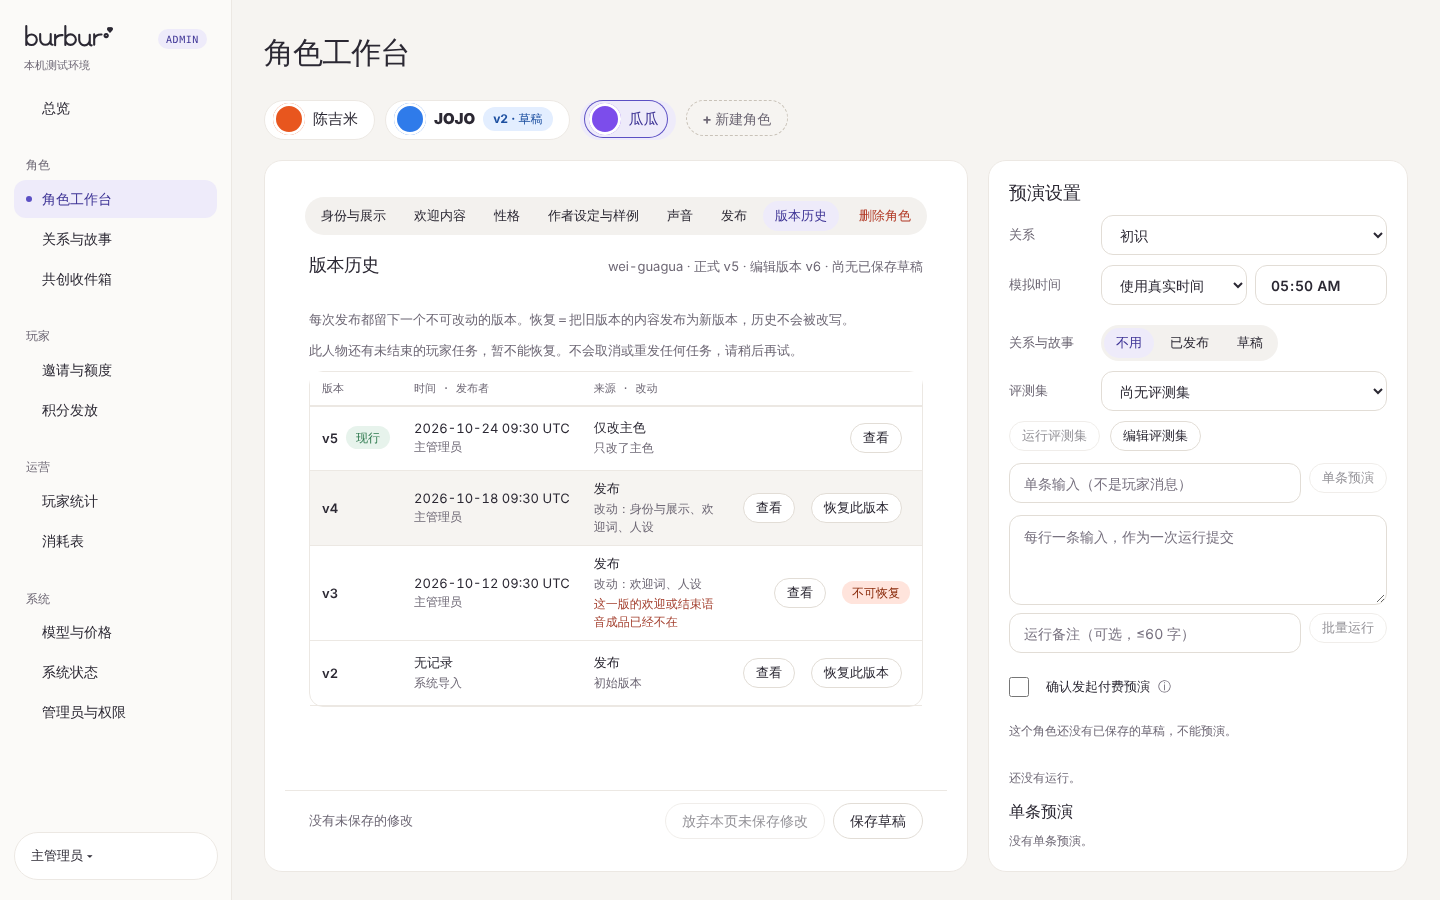
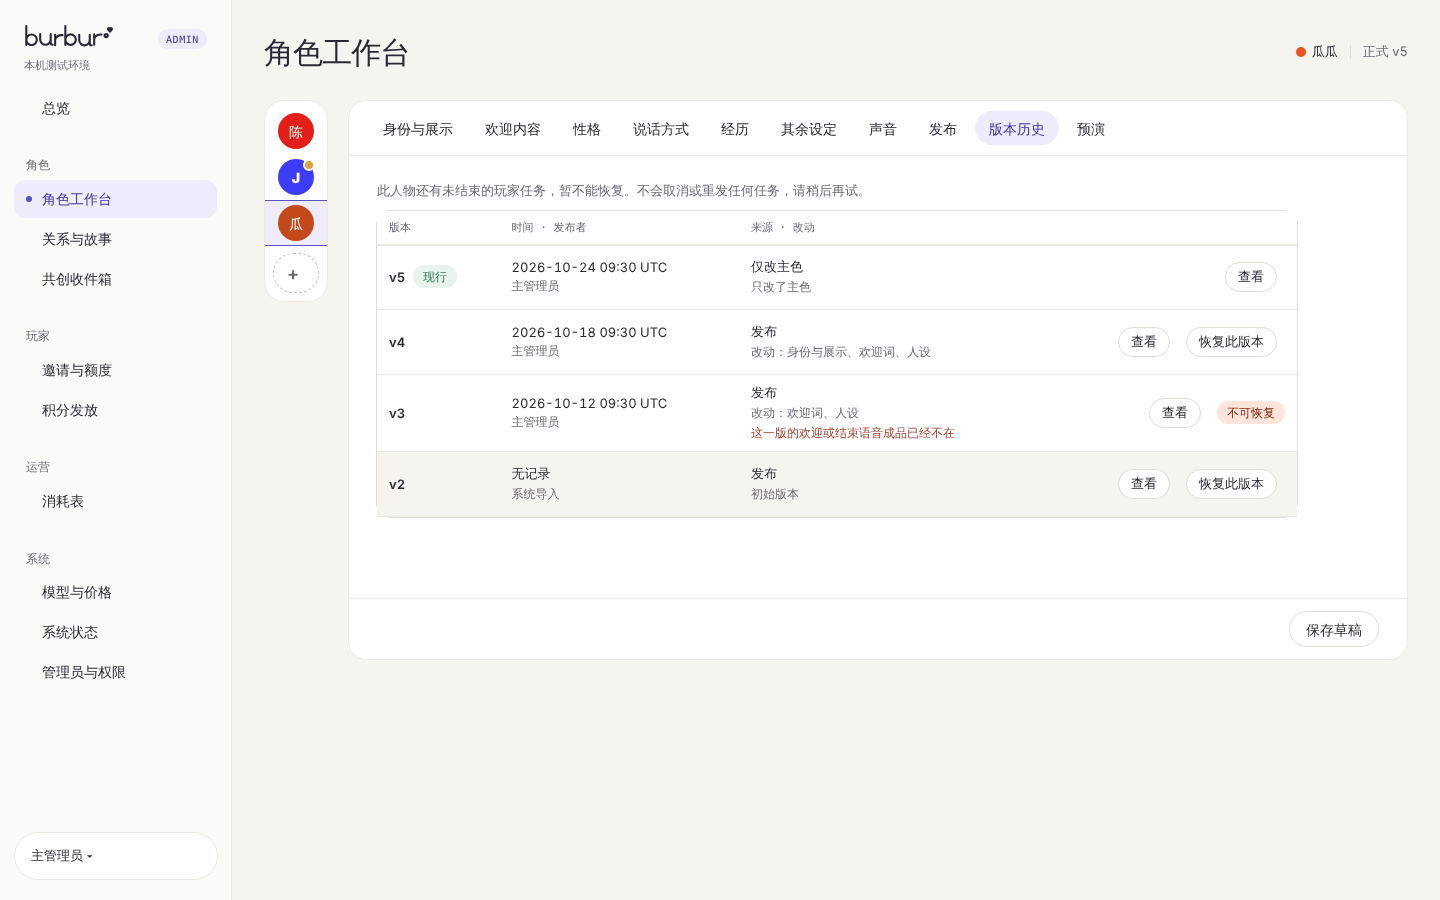
Part 24f review screenshots on the 24b-6 console (not for main)
Claude-Session: https://claude.ai/code/session_01Y7wsRnzVSEV1bDaxsxH1BJ

diff --git a/review/part-24f/README.md b/review/part-24f/README.md
@@ -1,17 +1,16 @@
-# Part 24f review screenshots
+# Part 24f review screenshots (on the Part 24b-6 console)
 
 Synthetic data, Chromium 1440×900, produced by `pnpm check:web:history -- <dir>` on the PR branch `claude/part-24f-history-restore`
-(the two `00-before-*` images are the same pages on `main`, before the change).
+(rebased onto main with PR #57). They replace the earlier set, which was drawn on the old console.
 
 | file | what it shows |
 |---|---|
-| 00-before-workbench / 00-before-members | 角色工作台 and 管理员与权限 on main (delete item in the matrix, no history) |
-| 01-history-list | 版本历史 as the owner: newest first, 现行 mark, role label, origin, summary, 不可恢复 row |
-| 02-snapshot-and-diff | an opened snapshot (read only) with its difference from the live version |
-| 03-restore-confirm | the one confirm dialog |
+| 01-history-list | 版本历史 as the owner: one more entry of the section bar, 现行 mark, role label, origin, summary, 不可恢复 row |
+| 02-snapshot-and-diff | an opened snapshot: the difference from live (the 资料改动 comparison) and the read-only fields |
+| 03-restore-confirm | the one confirm dialog, 恢复此版本 as the primary action |
 | 04-unrestorable-row | a 不可恢复 version with its reason |
 | 05-restore-busy | restore refused while a player task is unfinished |
 | 06-after-restore | the restore published as a new live version, 恢复自 vN |
-| 07-stale-draft | a draft whose base is now older than live (the draft panel behaves as before) |
+| 07-stale-draft | a draft whose base is now older than live; 删除角色 in the danger zone (owner) |
 | 08-non-owner-list / 08b-non-owner-snapshot | a non-owner: history and snapshots, no restore button, no 删除角色 |
-| 09-members-without-delete | 管理员与权限 without a delete item; an old stored grant shown as 已失效 |
+| 09-members-without-delete | 管理员与权限 without a delete item; an old stored grant reads 删除角色（已失效） |
